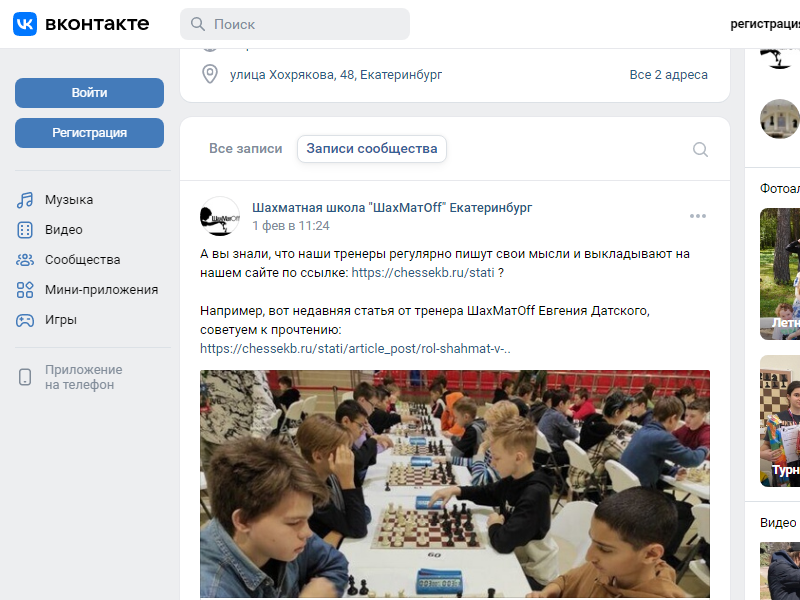
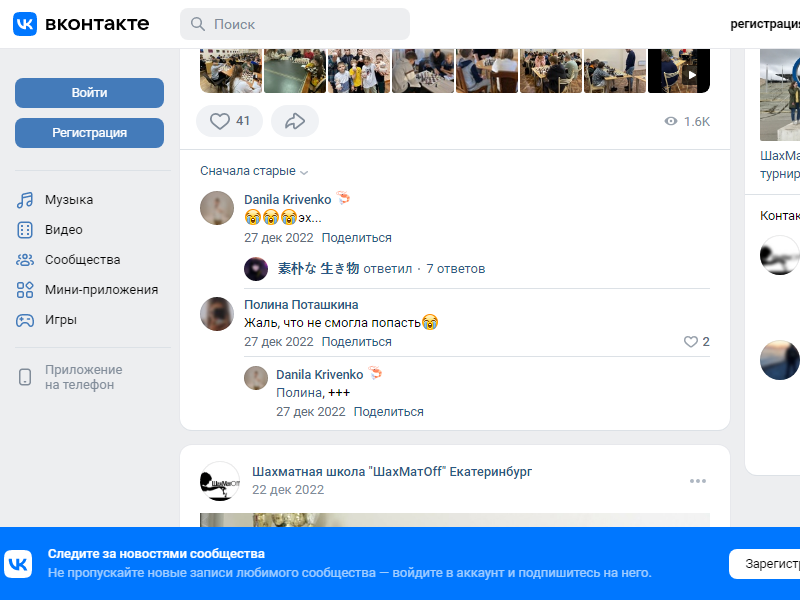
теперь без регистрации заходит в вк и сам нажимает кнопку закрыть регистрацию, сохраняет заголовки и текс в переменную

diff --git a/back/parser.js b/back/parser.js
@@ -1,3 +1,5 @@
+const config = require("./config");
+
 const puppeteer = require("puppeteer");
 
 const sleep = (ms) =>
@@ -7,11 +9,49 @@ const sleep = (ms) =>
 (async () => {
   const browser = await puppeteer.launch();
   const page = await browser.newPage();
+  // await page.goto("https://vk.com");
   await page.goto("https://vk.com/chessekb");
 
+  // await page.$eval(
+  //   "#index_email",
+  //   (elem, login) => {
+  //     elem.value = login;
+  //   },
+  //   config.login
+  // );
+
+  // await page.$eval(
+  //   "#index_pass",
+  //   (elem, pass) => {
+  //     elem.value = pass;
+  //   },
+  //   config.password
+  // );
+
   await page.evaluate(() => {
-    window.scrollBy(0, window.innerHeight);
+    window.scrollBy(0, document.body.scrollHeight);
   });
+
+  // await sleep(1000);
+
+  // await page.evaluate(() => {
+  //   window.scrollBy(0, document.body.scrollHeight);
+  // });
+  await page.screenshot({ path: "example1.png" });
+  await page.click("button.UnauthActionBox__close");
+  await sleep(100);
+  await page.evaluate(() => {
+    window.scrollBy(0, document.body.scrollHeight);
+  });
+  await sleep(500);
+  await page.screenshot({ path: "example2.png" });
+  await sleep(1500);
+  await page.evaluate(() => {
+    window.scrollBy(0, 15000);
+  });
+  await page.screenshot({ path: "example3.png" });
+  await sleep(1500);
+  await page.screenshot({ path: "example4.png" });
 
   page.on("console", (msg) => {
     console.log("PAGE LOG: ", msg.text());
@@ -20,15 +60,24 @@ const sleep = (ms) =>
   const result = await page.$$eval(".post", (elements) => {
     const data = [];
     for (const el of elements) {
-      const textEl = el.querySelector(".wall_post_text");
-      data.push({
-        text: el.querySelector(".wall_post_text").innerHTML,
-        data: el.querySelector(".wall_post_text").innerText,
-      });
+      if (el.querySelector(".wall_post_text")) {
+        const textEl = el.querySelector(".wall_post_text");
+        if (
+          el.querySelector(".wall_post_text").innerHTML &&
+          el.querySelector(".wall_post_text").innerText
+        ) {
+          data.push({
+            text: el.querySelector(".wall_post_text").innerHTML,
+            data: el.querySelector(".wall_post_text").innerText,
+          });
+        }
+      }
     }
     return data;
   });
   console.log(result.length);
-  await page.screenshot({ path: "example.png" });
+  // await page.screenshot({ path: "example.png" });
   await browser.close();
 })();
+
+// console.log(config.login);

diff --git a/back/config.js b/back/config.js
@@ -1,0 +1,6 @@
+const config = {
+  login: "+79965970848",
+  password: "If[VfnJaa2023]",
+};
+
+module.exports = config;
